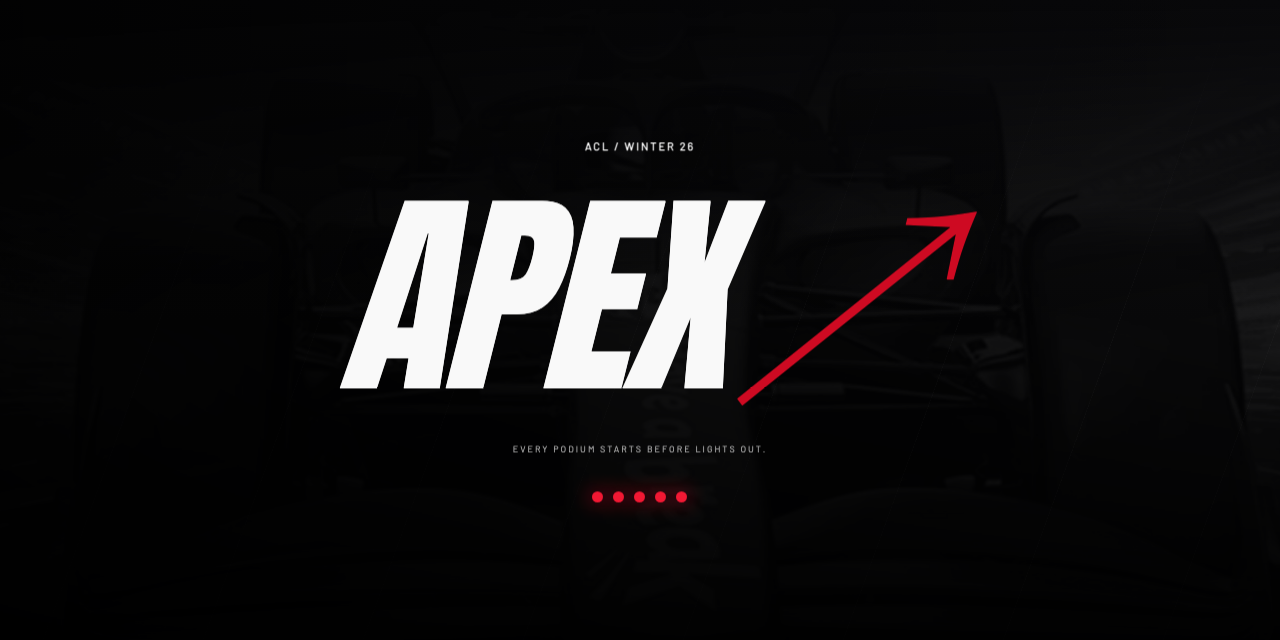
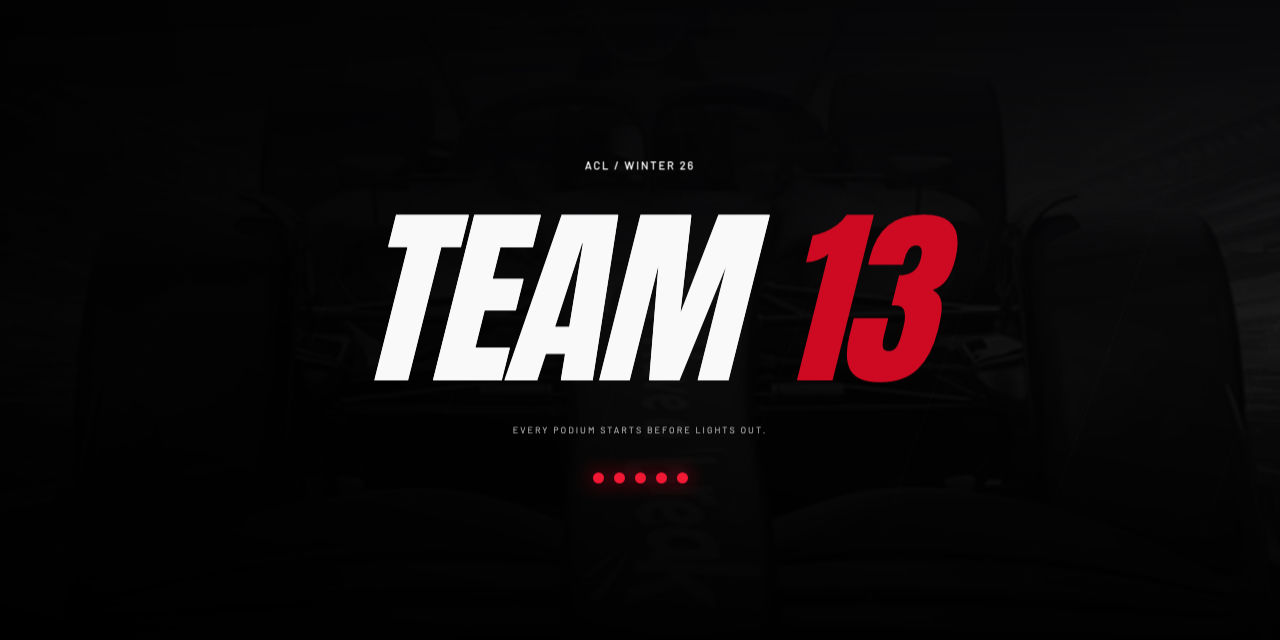
Standardize the project identity as Team 13
Update the website, artwork, metadata, documentation, and project configuration to use Team 13 consistently.

Changed region(s): [[0.25, 0.3125, 0.7812, 0.625], [0.4062, 0.6562, 0.5938, 0.8125], [0.4375, 0.2188, 0.5625, 0.2812]]

diff --git a/website/index.html b/website/index.html
@@ -4,22 +4,22 @@
   <meta charset="UTF-8">
   <meta name="viewport" content="width=device-width, initial-scale=1">
   <meta name="theme-color" content="#d30b23">
-  <title>ACL9 Apex | Formula 1 Podium Prediction · Winter 26</title>
-  <meta name="description" content="Meet ACL9 Apex (HBOX), our Winter 26 podium-prediction project. Explore the approach, meet our four-member crew, and access the full project archive.">
-  <link rel="canonical" href="https://acl9-winter26-apex.hatemsoliman.dev/">
-  <link rel="alternate" hreflang="en" href="https://acl9-winter26-apex.hatemsoliman.dev/">
-  <link rel="alternate" hreflang="x-default" href="https://acl9-winter26-apex.hatemsoliman.dev/">
+  <title>Team 13 | Formula 1 Podium Prediction · Winter 26</title>
+  <meta name="description" content="Meet Team 13, our Winter 26 podium-prediction project. Explore the approach, meet our four-member crew, and access the full project archive.">
+  <link rel="canonical" href="https://acl9-winter26-team13.hatemsoliman.dev/">
+  <link rel="alternate" hreflang="en" href="https://acl9-winter26-team13.hatemsoliman.dev/">
+  <link rel="alternate" hreflang="x-default" href="https://acl9-winter26-team13.hatemsoliman.dev/">
   <meta property="og:type" content="website">
-  <meta property="og:title" content="ACL9 Apex · Driven by data.">
-  <meta property="og:description" content="Formula 1 podium prediction. ACL · 9th Semester · Winter 26 (HBOX). Explore the project and get the archive.">
-  <meta property="og:url" content="https://acl9-winter26-apex.hatemsoliman.dev/">
-  <meta property="og:image" content="https://acl9-winter26-apex.hatemsoliman.dev/og.png">
+  <meta property="og:title" content="Team 13 · Driven by data.">
+  <meta property="og:description" content="Formula 1 podium prediction. ACL · 9th Semester · Winter 26. Explore the project and get the archive.">
+  <meta property="og:url" content="https://acl9-winter26-team13.hatemsoliman.dev/">
+  <meta property="og:image" content="https://acl9-winter26-team13.hatemsoliman.dev/og.png">
   <meta property="og:image:width" content="1280">
   <meta property="og:image:height" content="640">
   <meta name="twitter:card" content="summary_large_image">
-  <meta name="twitter:title" content="ACL9 Apex · Driven by data.">
+  <meta name="twitter:title" content="Team 13 · Driven by data.">
   <meta name="twitter:description" content="Formula 1 podium prediction · Winter 26. The project, the crew, and the archive.">
-  <meta name="twitter:image" content="https://acl9-winter26-apex.hatemsoliman.dev/og.png">
+  <meta name="twitter:image" content="https://acl9-winter26-team13.hatemsoliman.dev/og.png">
   <link rel="icon" href="assets/icon.svg" type="image/svg+xml">
   <link rel="manifest" href="manifest.webmanifest">
   <link rel="preload" href="assets/fonts/Anton-Regular.woff2" as="font" type="font/woff2" crossorigin>
@@ -28,9 +28,9 @@
   <script type="application/ld+json">{
   "@context": "https://schema.org",
   "@type": "WebSite",
-  "name": "ACL9 Apex",
-  "alternateName": "ACL9 Apex (HBOX) · Winter 26",
-  "url": "https://acl9-winter26-apex.hatemsoliman.dev/",
+  "name": "Team 13",
+  "alternateName": "Team 13 · Winter 26",
+  "url": "https://acl9-winter26-team13.hatemsoliman.dev/",
   "description": "Academic Formula 1 podium-prediction project showcase for ACL, ninth semester, Winter 26.",
   "inLanguage": "en",
   "isAccessibleForFree": true,
@@ -42,7 +42,7 @@
   },
   "about": {
     "@type": "SoftwareSourceCode",
-    "name": "ACL9 Apex website",
+    "name": "Team 13 website",
     "codeRepository": "https://github.com/CodeNKoffee/acl9-winter26-team13",
     "programmingLanguage": [
       "HTML",
@@ -58,10 +58,10 @@
   <div class="intro" id="intro" aria-hidden="true">
     <img class="intro-car" src="assets/kitkat-racing.jpeg" alt="">
     <div class="intro-grid"></div>
-    <div class="intro-center"><span class="eyebrow">ACL / WINTER 26</span><span class="intro-mark">APEX<span>↗</span></span><span class="intro-caption">EVERY PODIUM STARTS BEFORE LIGHTS OUT.</span><div class="starting-lights"><i></i><i></i><i></i><i></i><i></i></div></div>
+    <div class="intro-center"><span class="eyebrow">ACL / WINTER 26</span><span class="intro-mark">TEAM <span>13</span></span><span class="intro-caption">EVERY PODIUM STARTS BEFORE LIGHTS OUT.</span><div class="starting-lights"><i></i><i></i><i></i><i></i><i></i></div></div>
   </div>
   <header class="header">
-    <a class="wordmark" href="#home" aria-label="ACL9 Apex home"><img class="f1-logo" src="assets/f1-logo.svg" alt="Formula 1" width="320" height="80"><small>ACL9 / W26</small></a>
+    <a class="wordmark" href="#home" aria-label="Team 13 home"><img class="f1-logo" src="assets/f1-logo.svg" alt="Formula 1" width="320" height="80"><small>TEAM 13 / W26</small></a>
     <nav class="desktop-nav" aria-label="Main navigation"><a href="#project">The project</a><a href="#crew">The crew</a><a href="#archive">The archive</a></nav>
     <a class="header-cta" data-link="drive" href="https://drive.google.com/file/d/1DqSlh85tX_Q4ai2vMS4IBDJC6TlLHCPO/view?usp=sharing" target="_blank" rel="noopener noreferrer">Get the project <span>↗</span></a>
     <button class="menu-toggle" id="menu-toggle" aria-expanded="false" aria-controls="mobile-nav" aria-label="Open navigation"><span></span><span></span></button>
@@ -70,10 +70,10 @@
   <main id="main">
     <section class="hero" id="home" aria-labelledby="hero-title">
       <div class="hero-art" aria-hidden="true"><img src="assets/kitkat-racing.jpeg" alt="" fetchpriority="high"><div class="art-shade"></div></div>
-      <div class="hero-topline"><span>ACL · 9TH SEMESTER · WINTER 26</span><span class="status"><i></i> TEAM (HBOX)</span></div>
+      <div class="hero-topline"><span>ACL · 9TH SEMESTER · WINTER 26</span><span class="status"><i></i> TEAM 13</span></div>
       <div class="hero-copy"><p class="eyebrow"><span class="small-line"></span> FORMULA 1 PODIUM PREDICTION</p><h1 id="hero-title">DRIVEN<br>BY <span>DATA.</span></h1><p class="hero-description">Before the lights go out.<br>Before the podium is decided.<br>We look for the signal in the race.</p><div class="hero-actions"><a class="button button-light" href="#archive">Explore the project <span>↗</span></a><a class="text-link" href="#crew">Meet the crew <span>↓</span></a></div></div>
       <div class="hero-footer"><span class="hero-caption">THE GRID IS SET.<br>THE REST IS IN THE DATA.</span><a href="#project" class="scroll-cue"><span>SCROLL TO EXPLORE</span><span>↓</span></a><span class="hero-index">01 / 04</span></div>
-      <span class="hero-watermark" aria-hidden="true">APEX</span>
+      <span class="hero-watermark" aria-hidden="true">TEAM 13</span>
     </section>
     <div class="ticker" aria-label="Project themes"><div>QUALIFYING <span>✳</span> DATA ENGINEERING <span>✳</span> PODIUM PREDICTION <span>✳</span> EXPLAINABILITY <span>✳</span> WINTER 26 <span>✳</span></div></div>
     <section class="project section" id="project" aria-labelledby="project-title">
@@ -84,7 +84,7 @@
       <p class="section-note">This is the project brief and approach. The downloadable archive is the source for implementation details and results.</p>
     </section>
     <section class="crew section" id="crew" aria-labelledby="crew-title">
-      <div class="section-label"><span>02 / THE CREW</span><span>TEAM 13 · WINTER 26 · (HBOX)</span></div>
+      <div class="section-label"><span>02 / THE CREW</span><span>TEAM 13 · WINTER 26</span></div>
       <div class="crew-heading reveal"><h2 id="crew-title">HELMETS ON.<br><span>MINDS RACING.</span></h2><p>Four minds. One team. A shared curiosity for what happens before the chequered flag.<br><br>Meet Team 13.<br>The people behind the project.</p></div>
       <div class="driver-grid">
         <article class="driver-card reveal">
@@ -109,12 +109,12 @@
     <section class="archive section" id="archive" aria-labelledby="archive-title">
       <div class="section-label"><span>03 / THE ARCHIVE</span><span>YOUR PASS TO THE PROJECT</span></div>
       <div class="archive-heading reveal"><div><p class="eyebrow">OFF THE GRID. INTO THE WORK.</p><h2 id="archive-title">TAKE A<br><span>CLOSER LOOK.</span></h2></div><p>The full project, one place.<br>Open the archive on Google Drive, preview it here, or get the ZIP from GitHub.</p></div>
-      <div class="archive-panel reveal"><div class="archive-file"><span class="file-icon">↘</span><div><span class="eyebrow">PROJECT ARCHIVE / ZIP</span><h3>F1 Project Repository</h3><p>ACL · 9th Semester · Winter 26 (HBOX)</p></div><span class="archive-version">PROJECT FILES</span></div><div class="archive-actions"><a class="button button-red" data-link="drive" href="https://drive.google.com/file/d/1DqSlh85tX_Q4ai2vMS4IBDJC6TlLHCPO/view?usp=sharing" target="_blank" rel="noopener noreferrer">Open Google Drive <span>↗</span></a><button class="button button-outline" id="preview-toggle" aria-expanded="false" aria-controls="drive-preview">Preview archive <span>+</span></button><a class="text-link" data-link="zip" href="https://github.com/CodeNKoffee/acl9-winter26-team13/blob/main/F1%20Project%20Repository.zip" target="_blank" rel="noopener noreferrer">ZIP on GitHub <span>↗</span></a></div><div class="preview" id="drive-preview" hidden><div class="preview-top"><p>GOOGLE DRIVE PREVIEW</p><span>Hosted by Google</span></div><iframe title="Google Drive preview of F1 Project Repository ZIP" data-src="https://drive.google.com/file/d/1DqSlh85tX_Q4ai2vMS4IBDJC6TlLHCPO/preview" width="640" height="480" loading="lazy" referrerpolicy="no-referrer" allow="fullscreen"></iframe><p class="preview-help">If Drive cannot preview this ZIP, use <a data-link="drive" href="https://drive.google.com/file/d/1DqSlh85tX_Q4ai2vMS4IBDJC6TlLHCPO/view?usp=sharing" target="_blank" rel="noopener noreferrer">Open Google Drive</a> to access it directly.</p></div></div>
+      <div class="archive-panel reveal"><div class="archive-file"><span class="file-icon">↘</span><div><span class="eyebrow">PROJECT ARCHIVE / ZIP</span><h3>F1 Project Repository</h3><p>ACL · 9th Semester · Winter 26 · Team 13</p></div><span class="archive-version">PROJECT FILES</span></div><div class="archive-actions"><a class="button button-red" data-link="drive" href="https://drive.google.com/file/d/1DqSlh85tX_Q4ai2vMS4IBDJC6TlLHCPO/view?usp=sharing" target="_blank" rel="noopener noreferrer">Open Google Drive <span>↗</span></a><button class="button button-outline" id="preview-toggle" aria-expanded="false" aria-controls="drive-preview">Preview archive <span>+</span></button><a class="text-link" data-link="zip" href="https://github.com/CodeNKoffee/acl9-winter26-team13/blob/main/F1%20Project%20Repository.zip" target="_blank" rel="noopener noreferrer">ZIP on GitHub <span>↗</span></a></div><div class="preview" id="drive-preview" hidden><div class="preview-top"><p>GOOGLE DRIVE PREVIEW</p><span>Hosted by Google</span></div><iframe title="Google Drive preview of F1 Project Repository ZIP" data-src="https://drive.google.com/file/d/1DqSlh85tX_Q4ai2vMS4IBDJC6TlLHCPO/preview" width="640" height="480" loading="lazy" referrerpolicy="no-referrer" allow="fullscreen"></iframe><p class="preview-help">If Drive cannot preview this ZIP, use <a data-link="drive" href="https://drive.google.com/file/d/1DqSlh85tX_Q4ai2vMS4IBDJC6TlLHCPO/view?usp=sharing" target="_blank" rel="noopener noreferrer">Open Google Drive</a> to access it directly.</p></div></div>
       <div class="archive-bottom"><button class="copy-link" id="copy-link">Copy Drive link <span>⧉</span></button><p id="copy-status" role="status" aria-live="polite"></p><a href="project-link.txt" download>Save link as .txt <span>↓</span></a></div>
       <noscript><p class="noscript-note">The full project is available through the Google Drive and GitHub links above. JavaScript enables the intro, mobile menu, copy button, and embedded preview.</p></noscript>
     </section>
-    <section class="closing"><span class="eyebrow">ACL9 APEX / WINTER 26</span><p>THE NEXT MOVE<br>STARTS WITH <span>DATA.</span><span class="closing-arrow" aria-hidden="true">↗</span></p><a href="#home">BACK TO THE GRID ↑</a></section>
+    <section class="closing"><span class="eyebrow">TEAM 13 / WINTER 26</span><p>THE NEXT MOVE<br>STARTS WITH <span>DATA.</span><span class="closing-arrow" aria-hidden="true">↗</span></p><a href="#home">BACK TO THE GRID ↑</a></section>
   </main>
-  <footer class="footer"><a class="footer-brand" href="#home" aria-label="ACL9 Apex home"><img class="f1-logo" src="assets/f1-logo.svg" alt="Formula 1" width="320" height="80"><span>ACL9 / W26</span></a><div><a data-link="repo" href="https://github.com/CodeNKoffee/acl9-winter26-team13" target="_blank" rel="noopener noreferrer">GitHub ↗</a><a href="https://github.com/CodeNKoffee/acl9-winter26-team13/blob/main/README.md" target="_blank" rel="noopener noreferrer">Read the docs ↗</a><button id="replay-intro">Replay intro ↻</button></div><p>Student project · Team 13 (HBOX) · 2026<br><span>Independent academic project. F1 and KitKat marks belong to their owners.</span></p></footer>
+  <footer class="footer"><a class="footer-brand" href="#home" aria-label="Team 13 home"><img class="f1-logo" src="assets/f1-logo.svg" alt="Formula 1" width="320" height="80"><span>TEAM 13 / W26</span></a><div><a data-link="repo" href="https://github.com/CodeNKoffee/acl9-winter26-team13" target="_blank" rel="noopener noreferrer">GitHub ↗</a><a href="https://github.com/CodeNKoffee/acl9-winter26-team13/blob/main/README.md" target="_blank" rel="noopener noreferrer">Read the docs ↗</a><button id="replay-intro">Replay intro ↻</button></div><p>Student project · Team 13 · 2026<br><span>Independent academic project. F1 and KitKat marks belong to their owners.</span></p></footer>
 </body>
 </html>

diff --git a/website/assets/styles.css b/website/assets/styles.css
@@ -790,16 +790,17 @@ h2>span {
 }
 .intro-mark {
   font-family:var(--display);
-  font-size:clamp(100px,17vw,230px);
+  font-size:clamp(76px,15vw,210px);
   font-style:italic;
-  letter-spacing:-5px;
+  letter-spacing:-3px;
   line-height:1.3;
+  white-space:nowrap;
 }
 .intro-mark>span {
   color:var(--red);
-  font-family:var(--body);
+  font-family:var(--display);
   display:inline-block;
-  margin-left:10px;
+  margin-left:0;
 }
 .intro-caption {
   font-size:9px;

diff --git a/website/assets/config.js b/website/assets/config.js
@@ -1,6 +1,6 @@
 export const project = Object.freeze({
-  name: 'ACL9 Apex',
-  version: '1.1.1',
+  name: 'Team 13',
+  version: '1.2.0',
   drive: 'https://drive.google.com/file/d/1DqSlh85tX_Q4ai2vMS4IBDJC6TlLHCPO/view?usp=sharing',
   preview: 'https://drive.google.com/file/d/1DqSlh85tX_Q4ai2vMS4IBDJC6TlLHCPO/preview',
   repo: 'https://github.com/CodeNKoffee/acl9-winter26-team13',

diff --git a/website/docs/DEVELOPMENT.md b/website/docs/DEVELOPMENT.md
@@ -1,17 +1,17 @@
 <a href="#run-locally"><picture>
   <source media="(prefers-color-scheme: dark)" srcset="readme/banner-dark.png">
-  <img src="readme/banner-light.png" alt="ACL9 Apex: driven by data, Formula 1 podium prediction" width="1280" height="640">
+  <img src="readme/banner-light.png" alt="Team 13: driven by data, Formula 1 podium prediction" width="1280" height="640">
 </picture></a>
 
 <div align="center">
 
 # Website development guide
 
-**ACL · 9th Semester · Winter 26 · Team (HBOX)**
+**ACL · 9th Semester · Winter 26 · Team 13**
 
 [Project archive](https://drive.google.com/file/d/1DqSlh85tX_Q4ai2vMS4IBDJC6TlLHCPO/view?usp=sharing) · [Run locally](#run-locally) · [Deploy](#deploy-your-own) · [User guide](wiki/Home.md) · [GitHub Wiki](https://github.com/CodeNKoffee/acl9-winter26-team13/wiki)
 
-<a href="CHANGELOG.md"><img alt="Version 1.1.1" src="https://img.shields.io/badge/version-1.1.1-d30b23"></a>
+<a href="CHANGELOG.md"><img alt="Version 1.2.0" src="https://img.shields.io/badge/version-1.2.0-d30b23"></a>
 <a href="../../LICENSE"><img alt="Website code: MIT" src="https://img.shields.io/badge/website_code-MIT-141414"></a>
 <img alt="HTML, CSS and JavaScript" src="https://img.shields.io/badge/stack-HTML_%2F_CSS_%2F_JS-141414">
 <img alt="ACL ninth semester, Winter 26" src="https://img.shields.io/badge/ACL-9th_semester_%C2%B7_Winter_26-141414">
@@ -24,7 +24,7 @@
 
 ## The trailer
 
-Before the race starts, the question is already there: **who makes the podium?** ACL9 Apex is the public front door for our Formula 1 podium-prediction project. A dark racing intro opens onto a red car hero, an overview of the academic brief, the four members of Team 13, and direct access to the project files.
+Before the race starts, the question is already there: **who makes the podium?** Team 13 is the public front door for our Formula 1 podium-prediction project. A dark racing intro opens onto a red car hero, an overview of the academic brief, the four members of Team 13, and direct access to the project files.
 
 The site is a showcase and archive hub. It does not execute a model or present unverified prediction scores.
 
@@ -65,7 +65,7 @@ Drive may not render every ZIP. **Open Google Drive** and **ZIP on GitHub** rema
 
 | Feature | What happens |
 |---|---|
-| Racing intro | A dark car, Apex wordmark, and five red lights fade into the red hero. |
+| Racing intro | A dark car, Team 13 wordmark, and five red lights fade into the red hero. |
 | Project overview | Explains the podium target, dataset coverage from the brief, and pre-race information cutoff. |
 | Team 13 crew | Four named silhouette cards: Youssef Hesham, Hatem Soliman, Mohammed Elazab, and Tony Makaryous. Their original student IDs appear beneath each heading. |
 | Archive access | Drive link, on-demand iframe, GitHub ZIP link, clipboard copy, and `.txt` download. |
@@ -75,7 +75,7 @@ Drive may not render every ZIP. **Open Google Drive** and **ZIP on GitHub** rema
 
 ## Gallery
 
-The navigation and footer use the official white F1 wordmark. The project identity and intro remain ACL9 Apex. Team 13 is matched to the supplied Winter 2026 course roster; the four team IDs are shown as supplied, and the roster document itself is not published.
+The navigation and footer use the official white F1 wordmark. The project identity and intro remain Team 13. Team 13 is matched to the supplied Winter 2026 course roster; the four team IDs are shown as supplied, and the roster document itself is not published.
 
 The table above shows real desktop captures. [View the full mobile capture](readme/mobile.png). The [media script](../scripts/readme-media.mjs) regenerates every screenshot and the intro GIF.
 
@@ -134,7 +134,7 @@ Browser checks cover archive controls, the clipboard, `.txt` download, iframe wi
 
 Import `CodeNKoffee/acl9-winter26-team13` into Vercel with framework **Other** and the repository root as the project root. The root `vercel.json` configures install command `npm --prefix website ci`, build command `npm --prefix website run build`, and output directory `website/dist`. No environment variables are needed.
 
-**Deployment is left to the owner.** The metadata currently reserves the planned address [acl9-winter26-apex.hatemsoliman.dev](https://acl9-winter26-apex.hatemsoliman.dev); this is not a claim that the domain is live. Once you know the actual Vercel or custom domain, update all sharing metadata before deploying:
+**Deployment is left to the owner.** The metadata currently reserves the planned address [acl9-winter26-team13.hatemsoliman.dev](https://acl9-winter26-team13.hatemsoliman.dev); this is not a claim that the domain is live. Once you know the actual Vercel or custom domain, update all sharing metadata before deploying:
 
 ```sh
 npm run set-url -- https://your-actual-domain.example

diff --git a/website/docs/CHANGELOG.md b/website/docs/CHANGELOG.md
@@ -8,6 +8,14 @@ All notable changes are documented here using [Keep a Changelog](https://keepach
 
 - Versioned user guide in `website/docs/wiki/` and a script for publishing it to GitHub Wiki.
 
+## [1.2.0] - 2026-10-17
+
+### Changed
+
+- Standardized the website, introduction, artwork, metadata, documentation, and project configuration on Team 13.
+- Refreshed the Team 13 favicon, driver emblems, screenshots, and sharing images.
+- Updated the planned custom domain to match the current repository identity.
+
 ## [1.1.1] - 2026-10-17
 
 ### Changed
@@ -35,7 +43,7 @@ All notable changes are documented here using [Keep a Changelog](https://keepach
 
 ### Changed
 
-- Replaced the Apex navigation and footer wordmarks with the official white F1 SVG.
+- Replaced the navigation and footer wordmarks with the official white F1 SVG.
 - Updated the crew section to the four verified Team 13 members, retaining illustrative driver silhouettes.
 - Adjusted the crew grid for desktop, tablet, and phone widths and refreshed documentation and real app media.
 
@@ -43,7 +51,7 @@ All notable changes are documented here using [Keep a Changelog](https://keepach
 
 ### Added
 
-- ACL9 Apex identity for ACL, 9th Semester, Winter 26, with (HBOX) as a secondary team label.
+- Initial project identity for ACL, 9th Semester, Winter 26.
 - Static racing showcase with a dark lights-out intro, red car hero, anonymous crew, and project overview.
 - Google Drive link, on-demand archive preview, copy control, `.txt` link download, and GitHub ZIP access.
 - Responsive navigation, reduced-motion support, complete no-JavaScript content, and bundled OFL fonts.
@@ -53,11 +61,12 @@ All notable changes are documented here using [Keep a Changelog](https://keepach
 
 ### Changed
 
-- Repository identity from `acl-9th-hbox` to `acl9-winter26-apex`.
+- Set up the public project repository.
 
 The pre-existing `F1 Project Repository.zip` remains unchanged by this release. The website's version number describes the showcase, not the archived model or coursework.
 
-[Unreleased]: https://github.com/CodeNKoffee/acl9-winter26-team13/compare/v1.1.1...HEAD
+[Unreleased]: https://github.com/CodeNKoffee/acl9-winter26-team13/compare/v1.2.0...HEAD
+[1.2.0]: https://github.com/CodeNKoffee/acl9-winter26-team13/compare/v1.1.1...v1.2.0
 [1.1.1]: https://github.com/CodeNKoffee/acl9-winter26-team13/compare/v1.1.0...v1.1.1
 [1.1.0]: https://github.com/CodeNKoffee/acl9-winter26-team13/compare/v1.0.2...v1.1.0
 [1.0.2]: https://github.com/CodeNKoffee/acl9-winter26-team13/compare/v1.0.1...v1.0.2

diff --git a/website/docs/wiki/Home.md b/website/docs/wiki/Home.md
@@ -1,6 +1,6 @@
-# ACL9 Apex user guide
+# Team 13 user guide
 
-A racing-inspired front door for the ACL 9th-semester Winter 26 Formula 1 podium-prediction project, team (HBOX).
+A racing-inspired front door for the ACL 9th-semester Winter 26 Formula 1 podium-prediction project, Team 13.
 
 [Archive](https://drive.google.com/file/d/1DqSlh85tX_Q4ai2vMS4IBDJC6TlLHCPO/view?usp=sharing) · [Source](https://github.com/CodeNKoffee/acl9-winter26-team13) · [Report a bug](https://github.com/CodeNKoffee/acl9-winter26-team13/issues/new?template=bug_report.md)
 
@@ -13,6 +13,6 @@ A racing-inspired front door for the ACL 9th-semester Winter 26 Formula 1 podium
 | Improve the site or publish this guide | [[Contributing]] |
 | Resolve a common question | [[FAQ]] |
 
-Version 1.1.0 makes the ZIP the first action in the repository README and groups the website source and detailed docs under `website/`. The crew uses the team's preferred display names and original student IDs. The official white F1 logo appears in the navigation and footer, alongside the four-member Team 13 crew. The lights-out intro, project overview, and archive access remain available. The website introduces the course brief; model implementation and results belong to the archive.
+Version 1.2.0 standardizes the project identity as Team 13. The repository makes the ZIP the first action in the repository README and groups the website source and detailed docs under `website/`. The crew uses the team's preferred display names and original student IDs. The official white F1 logo appears in the navigation and footer, alongside the four-member Team 13 crew. The lights-out intro, project overview, and archive access remain available. The website introduces the course brief; model implementation and results belong to the archive.
 
-The planned website address is https://acl9-winter26-apex.hatemsoliman.dev. Deployment and domain connection are left to the owner.
+The planned website address is https://acl9-winter26-team13.hatemsoliman.dev. Deployment and domain connection are left to the owner.

diff --git a/website/docs/REPOSITORY-SETUP.md b/website/docs/REPOSITORY-SETUP.md
@@ -1,11 +1,11 @@
 # GitHub and deployment handoff
 
-- Name: **ACL9 Apex**
+- Name: **Team 13**
 - Repository: `CodeNKoffee/acl9-winter26-team13`
-- About: `Formula 1 podium-prediction project showcase · ACL, 9th Semester, Winter 26 (HBOX). Static racing site, project archive, and guide.`
+- About: `Formula 1 podium-prediction project · Team 13 · ACL, 9th Semester, Winter 26. Project archive, racing website, and guide.`
 - Topics: `formula-1`, `podium-prediction`, `machine-learning`, `data-engineering`, `academic-project`, `winter-2026`, `html`, `css`, `javascript`, `vercel`
-- Website: planned `https://acl9-winter26-apex.hatemsoliman.dev`; set the About website only after deployment.
-- Release tag: `v1.1.0`, describing the website release.
+- Website: planned `https://acl9-winter26-team13.hatemsoliman.dev`; set the About website only after deployment.
+- Release tag: `v1.2.0`, describing the website release.
 - Social preview file: `website/og.png`. GitHub's custom repository social preview must be set in the repository settings by a signed-in maintainer; the website's Open Graph preview is already configured.
 
 The repository already contained its ZIP. This release leaves its content unchanged. Vercel deployment, DNS, and archive updates remain with the owner.

diff --git a/website/docs/wiki/_Footer.md b/website/docs/wiki/_Footer.md
@@ -1,1 +1,1 @@
-[Project archive](https://drive.google.com/file/d/1DqSlh85tX_Q4ai2vMS4IBDJC6TlLHCPO/view?usp=sharing) · [Website (planned)](https://acl9-winter26-apex.hatemsoliman.dev) · [Source](https://github.com/CodeNKoffee/acl9-winter26-team13) · [Bug report](https://github.com/CodeNKoffee/acl9-winter26-team13/issues/new?template=bug_report.md) · [Changelog](https://github.com/CodeNKoffee/acl9-winter26-team13/blob/main/website/docs/CHANGELOG.md) · [MIT](https://github.com/CodeNKoffee/acl9-winter26-team13/blob/main/LICENSE) · [Hatem Soliman](https://hatemsoliman.dev)
+[Project archive](https://drive.google.com/file/d/1DqSlh85tX_Q4ai2vMS4IBDJC6TlLHCPO/view?usp=sharing) · [Website (planned)](https://acl9-winter26-team13.hatemsoliman.dev) · [Source](https://github.com/CodeNKoffee/acl9-winter26-team13) · [Bug report](https://github.com/CodeNKoffee/acl9-winter26-team13/issues/new?template=bug_report.md) · [Changelog](https://github.com/CodeNKoffee/acl9-winter26-team13/blob/main/website/docs/CHANGELOG.md) · [MIT](https://github.com/CodeNKoffee/acl9-winter26-team13/blob/main/LICENSE) · [Hatem Soliman](https://hatemsoliman.dev)

diff --git a/README.md b/README.md
@@ -1,6 +1,6 @@
 # Formula 1 Podium Prediction
 
-**ACL · 9th Semester · Winter 26 · Team 13 (HBOX)**
+**ACL · 9th Semester · Winter 26 · Team 13**
 
 Our project explores who finishes on the podium using information available after qualifying and before the race starts.
 
@@ -31,7 +31,7 @@ Our project explores who finishes on the podium using information available afte
 ## Website preview
 
 <p align="center">
-  <img src="website/docs/readme/hero.png" alt="ACL9 Apex website: white F1 logo, red racing car, and Driven by Data headline" width="100%">
+  <img src="website/docs/readme/hero.png" alt="Team 13 website: white F1 logo, red racing car, and Driven by Data headline" width="100%">
 </p>
 
 The website introduces the project and team, with direct archive links and a Google Drive preview. It does not run the prediction model in the browser.

diff --git a/.github/SECURITY.md b/.github/SECURITY.md
@@ -9,7 +9,7 @@
 
 ## Report privately
 
-Use [GitHub private vulnerability reporting](https://github.com/CodeNKoffee/acl9-winter26-team13/security/advisories/new). If that route is unavailable, email maintainer **hatemthedev@gmail.com** with the subject `ACL9 Apex security report`. Do not open a public issue with exploit details or secrets. Include affected files, reproduction steps, and impact; use synthetic data.
+Use [GitHub private vulnerability reporting](https://github.com/CodeNKoffee/acl9-winter26-team13/security/advisories/new). If that route is unavailable, email maintainer **hatemthedev@gmail.com** with the subject `Team 13 security report`. Do not open a public issue with exploit details or secrets. Include affected files, reproduction steps, and impact; use synthetic data.
 
 ## Scope
 

diff --git a/website/docs/wiki/Self-Hosting.md b/website/docs/wiki/Self-Hosting.md
@@ -8,7 +8,7 @@ Run `npm run check`, `npx playwright install chromium`, `npm test`, and `npm run
 
 Import `CodeNKoffee/acl9-winter26-team13`. Choose framework **Other** and leave the Vercel project root at the repository root. The root `vercel.json` sets install command `npm --prefix website ci`, build command `npm --prefix website run build`, and output directory `website/dist`. It also supplies the security headers. No environment variables are required.
 
-The metadata currently uses the planned domain https://acl9-winter26-apex.hatemsoliman.dev. Set your actual domain before publication:
+The metadata currently uses the planned domain https://acl9-winter26-team13.hatemsoliman.dev. Set your actual domain before publication:
 
 ```sh
 npm run set-url -- https://your-actual-domain.example

diff --git a/.github/CONTRIBUTING.md b/.github/CONTRIBUTING.md
@@ -1,8 +1,8 @@
-# Contributing to ACL9 Apex
+# Contributing to Team 13
 
 | | |
 |---|---|
-| Website (planned) | [acl9-winter26-apex.hatemsoliman.dev](https://acl9-winter26-apex.hatemsoliman.dev), pending owner deployment |
+| Website (planned) | [acl9-winter26-team13.hatemsoliman.dev](https://acl9-winter26-team13.hatemsoliman.dev), pending owner deployment |
 | Repository | [github.com/CodeNKoffee/acl9-winter26-team13](https://github.com/CodeNKoffee/acl9-winter26-team13) |
 | User guide | [Guide source](../website/docs/wiki/Home.md) · [Wiki](https://github.com/CodeNKoffee/acl9-winter26-team13/wiki) |
 | Report a bug | [New bug report](https://github.com/CodeNKoffee/acl9-winter26-team13/issues/new?template=bug_report.md) |
